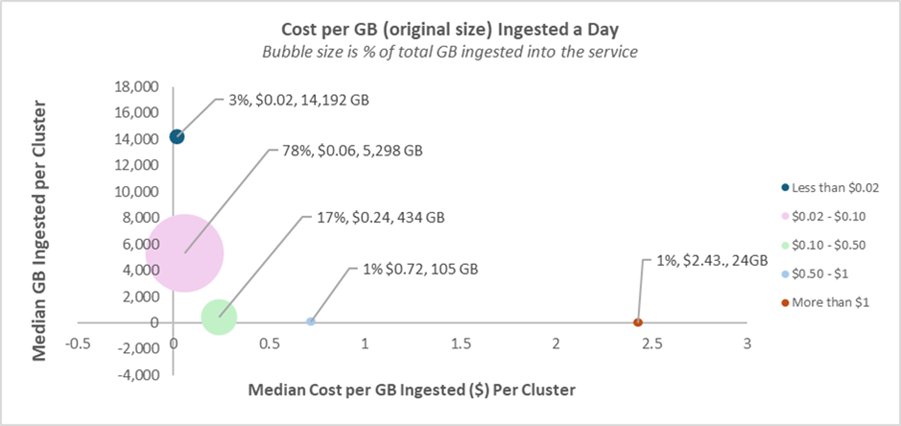
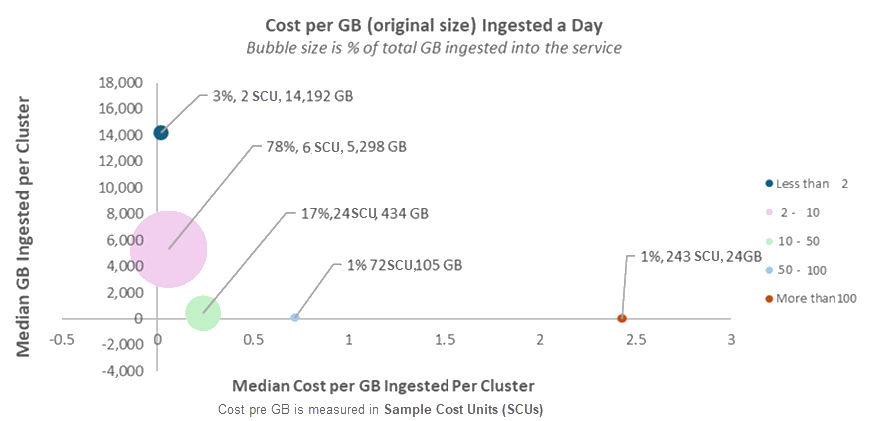
removed $ and added sample cost units

diff --git a/data-explorer/pricing-cost-drivers.md b/data-explorer/pricing-cost-drivers.md
@@ -16,11 +16,12 @@ Azure Data Explorer (ADX) is a fully managed analytics platform for real-time an
 
 To help understand the cost of using Azure Data Explorer, this article uses the metric **cost per GB ingested**. This metric is the **total cluster cost** (compute, storage, networking, and service markup) divided by the **total original sized data ingested** during that period.
 
-A representative snapshot of ADX clusters in **June 2025** is used to ground the analysis. The following sections show the main results from the [analysis](#cost-per-gb-ingested-analysis), explain [what drives](#what-drives-cost-per-gb-ingested) the cost variations, and how users can [optimize cost per GB ingested](#a-closer-look-at-key-cost-drivers) without compromising performance.
+A representative snapshot of ADX clusters in **June 2025** is used to ground the example analysis. The following sections show the main results from the [analysis](#cost-per-gb-ingested-analysis), explain [what drives](#what-drives-cost-per-gb-ingested) the cost variations, and how users can [optimize cost per GB ingested](#a-closer-look-at-key-cost-drivers) without compromising performance.
 
 > [!NOTE]
 >
-> All cost figures in this article show list prices and don't include discounts or commitment-based savings.
+> For the purpose of this example analysis, cost per GB is expressed in **Sample Cost Units (SCUs)**.
+> For list prices and how to calculate them, see [Cost breakdown of Azure Data Explorer](pricing-cost-drivers.md).
 
 ## Cost per GB ingested analysis
 
@@ -30,11 +31,11 @@ The chart below shows **median daily GB ingested** in original size (Y-axis) vs.
 
 Cost per GB ingested varies across clusters, but several patterns stand out:
 
-* **Most data (78%)** is ingested at a cost between **$0.02 and $0.10 per GB** (before discounts).
+* **Most data (>75%)** is ingested at a cost between **2 and 10 SCUs per GB** (before discounts).
 
-* **3% of the data** is ingested at **less than $0.02 per GB**.
+* **Less than 5% of the data** is ingested at **less than 2 SCUs per GB**.
 
-* Even within the same usage category (or "bubble"), you see significant variation. For example, in the largest bubble, one cluster ingests at **$0.02 per GB**, while another reaches **$0.10 per GB**. That's a **5X difference**. The next sections explain the key reasons for this variation.
+* Even within the same usage category (or "bubble"), you see significant variation. For example, in the largest bubble, one cluster ingests at **2 SCUs per GB**, while another reaches **10 SCUs per GB**. That's a **5X difference**. The next sections explain the key reasons for this variation.
 
 * Clusters with **higher cost per GB are less common** and usually have **lower ingestion volumes**. In general, smaller data volumes mean higher cost per GB.
   
@@ -66,7 +67,7 @@ These key factors are behind the variations in cost per GB ingested per cluster:
 
 * **Advanced features**: Options like followers, private endpoints, and Python sandboxes consume more resources and can add to cost.
 
-* **Data pipeline choice**: Some ingestion paths cost less. For example, [Event Grid](ingest-data-event-grid-overview.md) ingestion is usually cheaper than [Event Hub](ingest-data-event-hub-overview.md).
+* **Data pipeline choice**: Some ingestion paths cost less. For example, [Event Grid](ingest-data-event-grid-overview.md) ingestion is usually cheaper than [Event Hubs](ingest-data-event-hub-overview.md).
 
 * **Autoscale**: Clusters without autoscale often cost more because they don't adjust their size based on demand.
 
